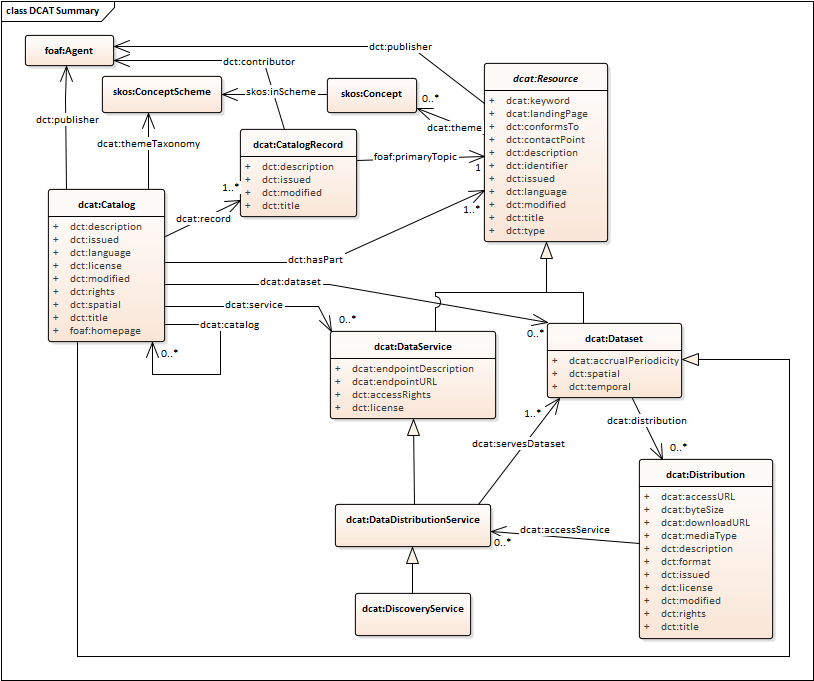
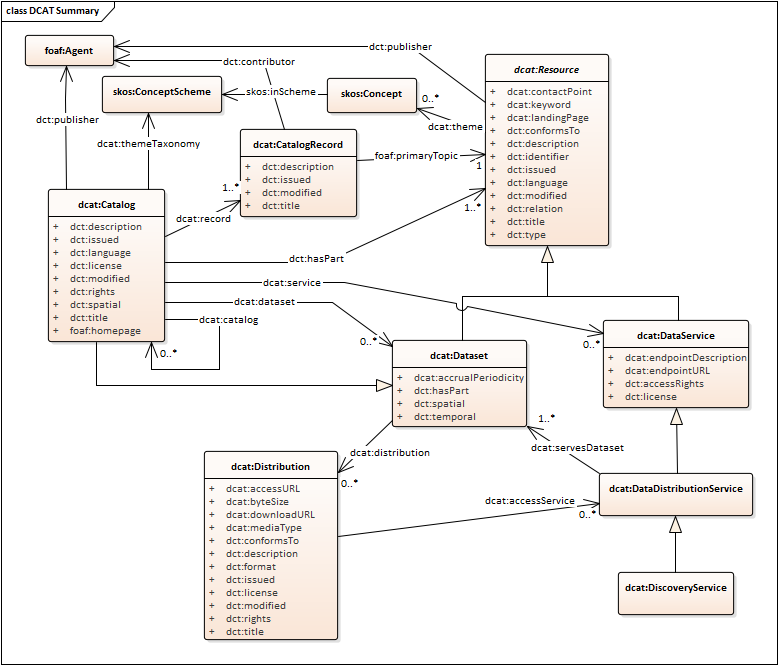
Add dct:conformsTo to dcat:Distribution

Changed region(s): [[0.0, 0.0, 0.9871, 0.9624], [0.4627, 0.3308, 0.5244, 0.3609]]

diff --git a/index.html b/index.html
@@ -1068,16 +1068,17 @@ into a separate named graph. The name of that graph should be the IRI of the cat
 <p>The following properties are recommended for use on this class:
 	<a href="#Property:distribution_accessurl">access URL</a>,
 	<a href="#Property:distribution_accessservice">access service</a>,
-<a href="#Property:distribution_size">byte size</a>,
-<a href="#Property:distribution_description">description</a>,
-<a href="#Property:distribution_downloadurl">download URL</a>,
-<a href="#Property:distribution_format">format</a>,
-<a href="#Property:distribution_license">license</a>,
-<a href="#Property:distribution_media_type">media type</a>,
-<a href="#Property:distribution_release_date">release date</a>,
-<a href="#Property:distribution_rights">rights</a>,
-<a href="#Property:distribution_title">title</a>,
-<a href="#Property:distribution_update_date">update date</a>
+	<a href="#Property:distribution_size">byte size</a>,
+	<a href="#Property:distribution_conformsto">conforms to</a>,
+	<a href="#Property:distribution_description">description</a>,
+	<a href="#Property:distribution_downloadurl">download URL</a>,
+	<a href="#Property:distribution_format">format</a>,
+	<a href="#Property:distribution_license">license</a>,
+	<a href="#Property:distribution_media_type">media type</a>,
+	<a href="#Property:distribution_release_date">release date</a>,
+	<a href="#Property:distribution_rights">rights</a>,
+	<a href="#Property:distribution_title">title</a>,
+	<a href="#Property:distribution_update_date">update date</a>
 </p>
 
 <p class="issue" data-number="52">
@@ -1283,6 +1284,18 @@ into a separate named graph. The name of that graph should be the IRI of the cat
     <tr><td class="prop">Domain:</td><td><a href="http://www.w3.org/ns/dcat#Distribution">dcat:Distribution</a></td></tr>
     <tr><td class="prop">Range:</td><td><a href="http://www.w3.org/2000/01/rdf-schema#Literal">rdfs:Literal</a> typed as <a href="http://www.w3.org/TR/xmlschema-2/#decimal">xsd:decimal</a>.</td></tr>
     <tr><td class="prop">Usage note:</td><td>The size in bytes can be approximated when the precise size is not known.</td></tr>
+  </tbody>
+</table>
+</section>
+
+<section id="Property:distribution_conformsto">
+<h4>Property: conforms to</h4>
+<table class="definition">
+  <thead><tr><th>RDF Property:</th><th><a href="http://purl.org/dc/terms/conformsTo">dct:conformsTo</a></th></tr></thead>
+  <tbody>
+    <tr><td class="prop">Definition:</td><td>An established standard to which the described resource conforms.</td></tr>
+    <tr><td class="prop">Range:</td><td><a href="http://purl.org/dc/terms/Standard">dct:Standard</a> (A basis for comparison; a reference point against which other things can be evaluated.)</td></tr>
+		<tr><td class="prop">Usage note:</td><td>This property <em title="SHOULD" class="rfc2119">SHOULD</em> be used to indicate the model or schema or ontology that this representation conforms to, which is generally a complementary concern to the media-type or format. </td></tr>
   </tbody>
 </table>
 </section>
